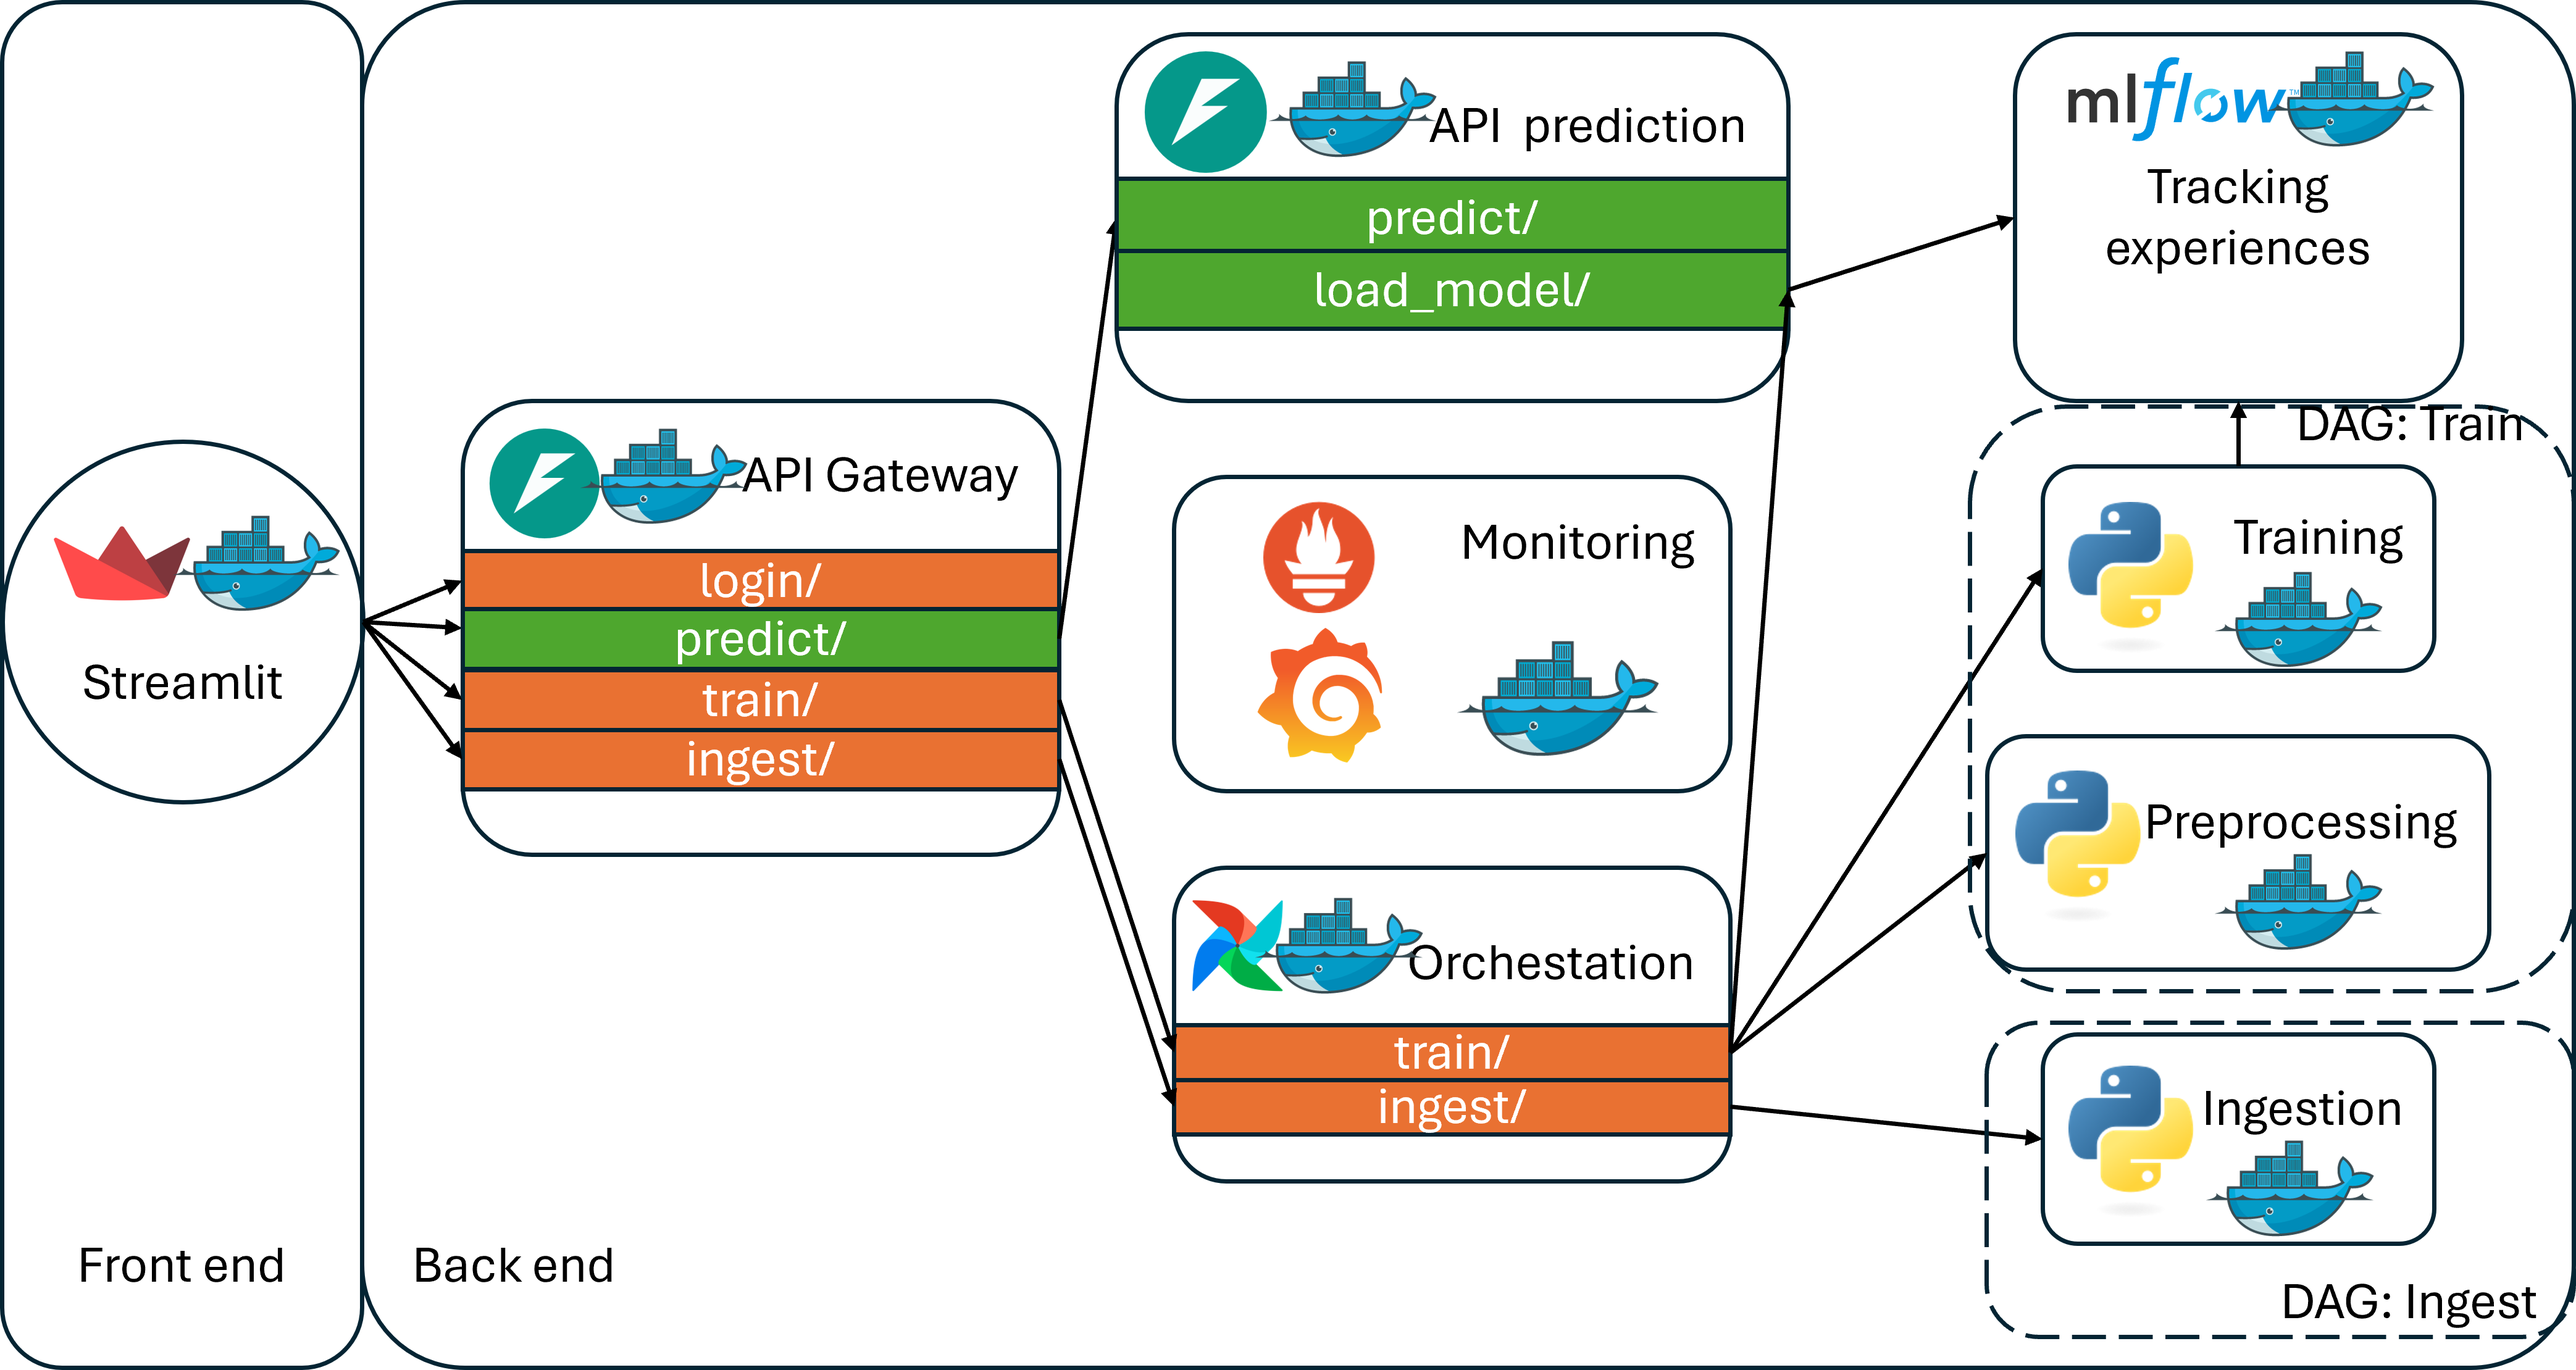
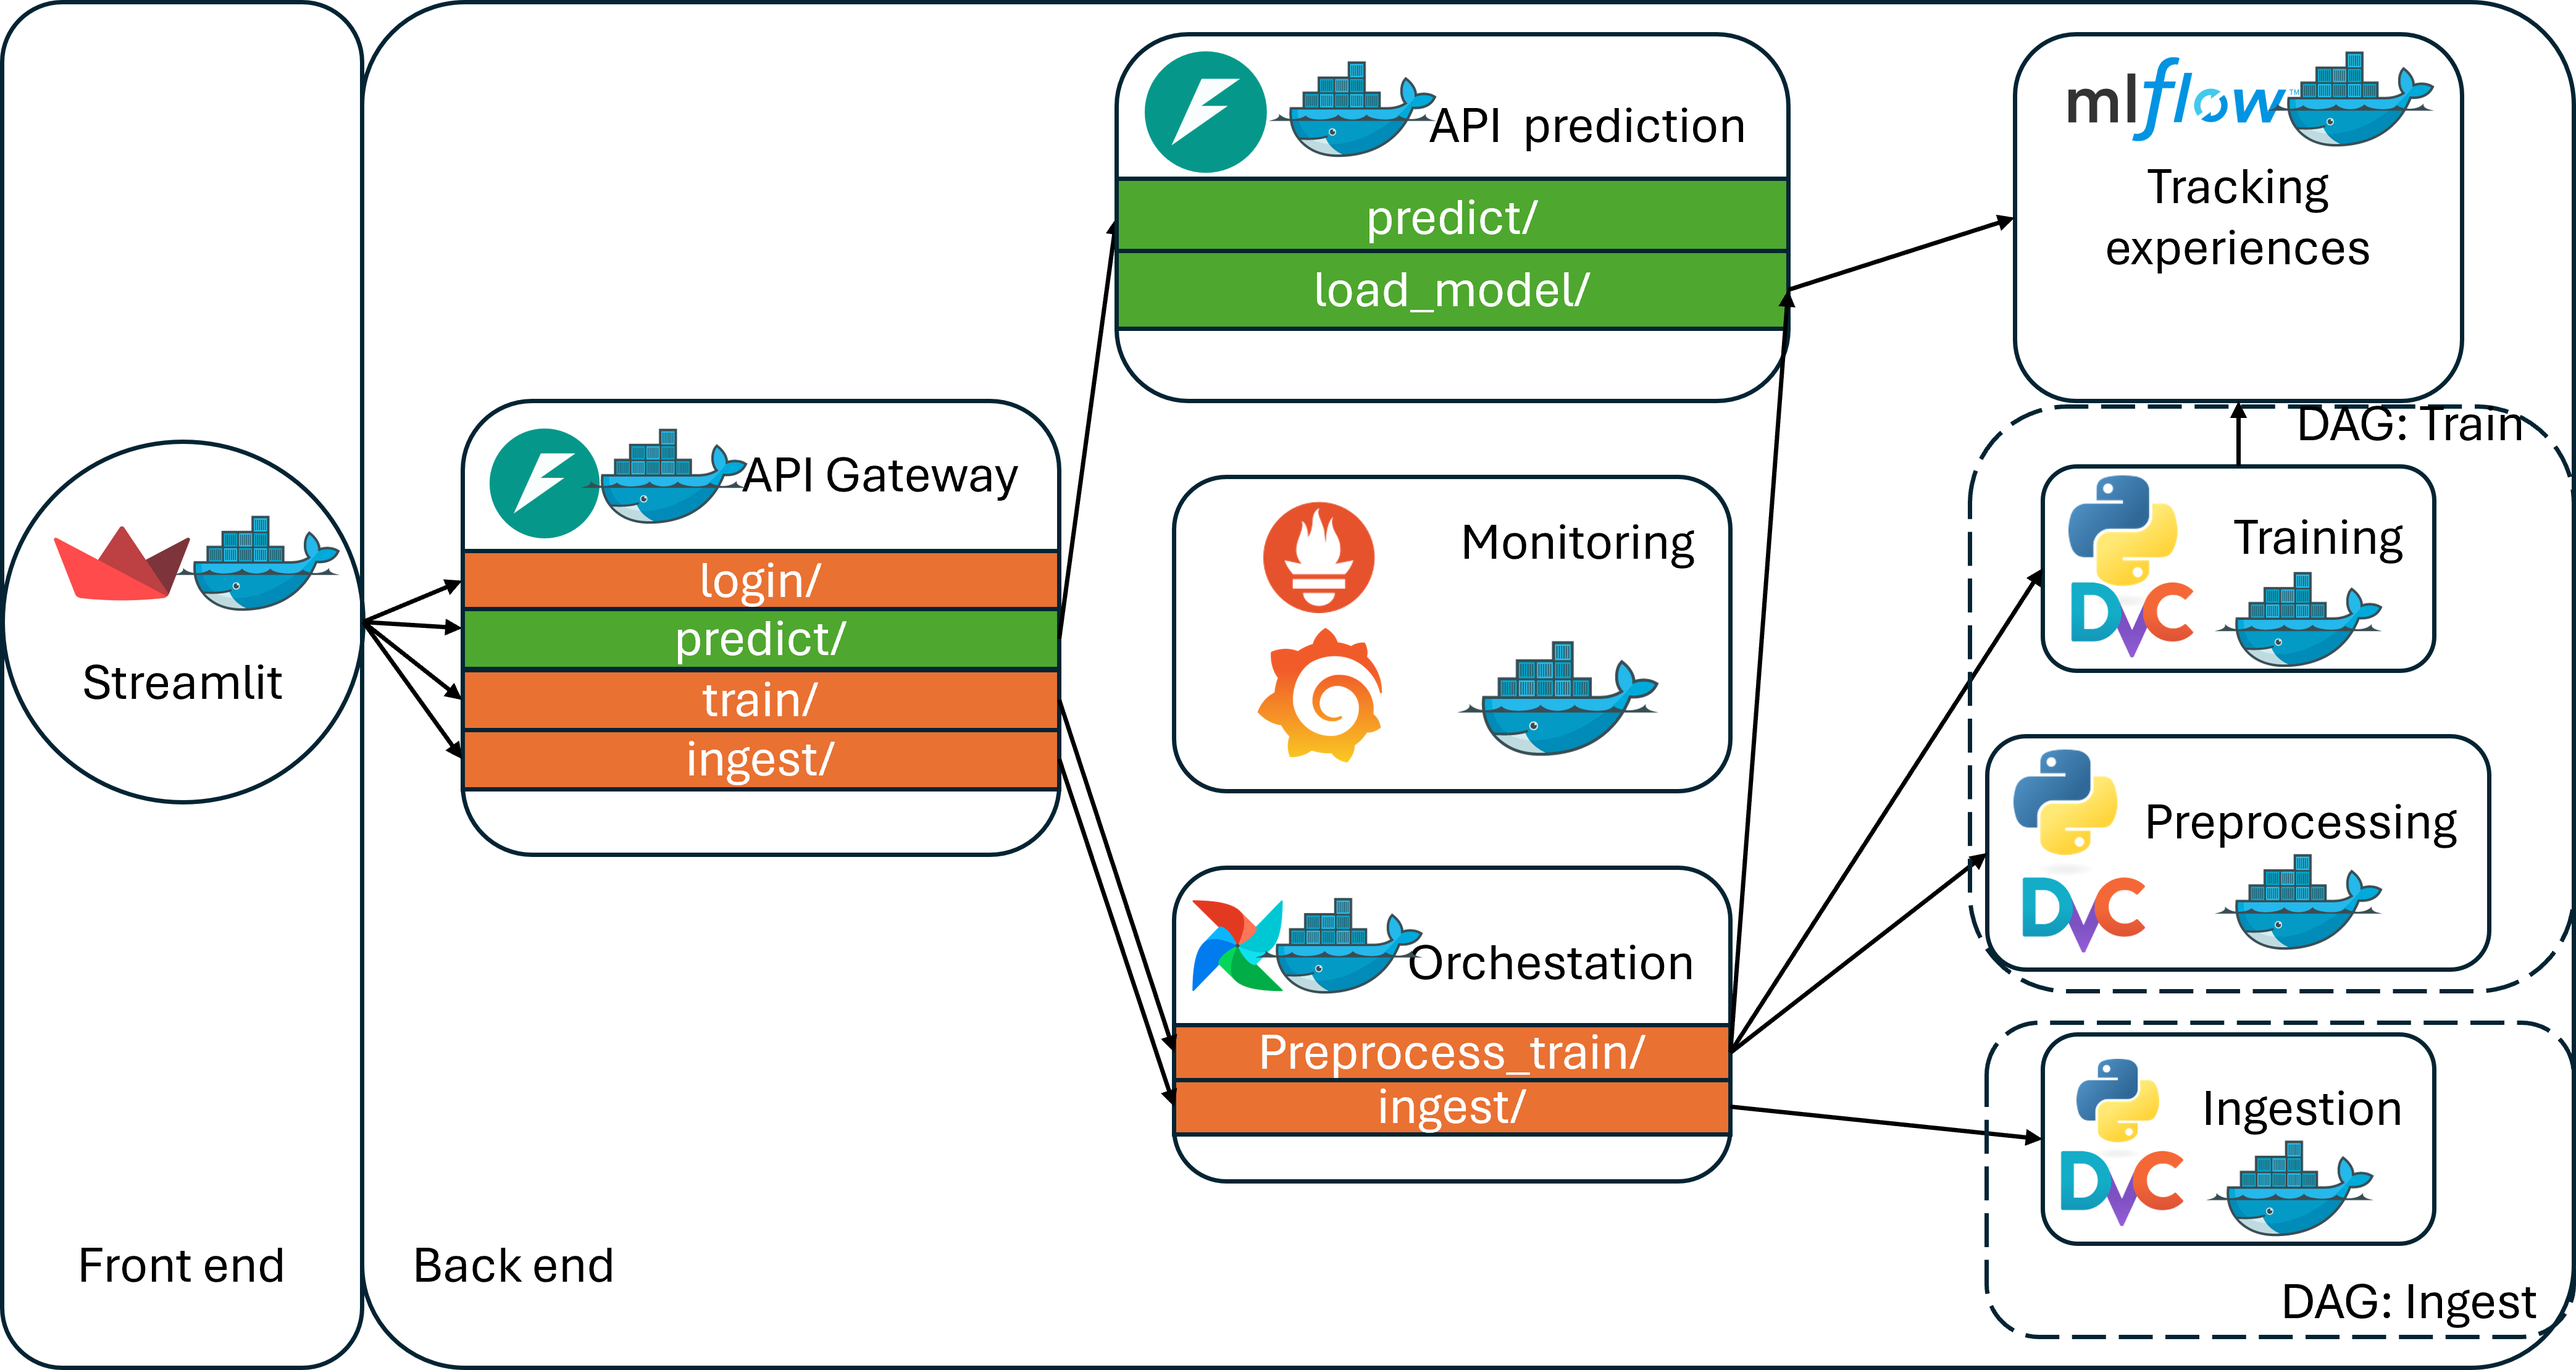
Modification of README for adding the details of DVC

diff --git a/README.md b/README.md
@@ -134,11 +134,12 @@ Ce projet implémente un système de prédiction du lendemain en Australie basé
 
 Il y a différents microservices qui tournent au même temps pour faire fonctionner l'application:
 - #### Ingestion
-Ce microservices sert à récupérer les données journalières des différents endroits pour les enregistrer sur la base de données brute pour une prochaine entrainement.
+Ce microservices sert à récupérer les données journalières des différents endroits pour les enregistrer sur la base de données brute pour une prochaine entrainement. Dedans le conteneur, la gestion de version des données brutes est gérée via DVC.
 - #### Preprocessing
-Ce microservice récupère la dernière version des données brutes et preprocess les données pour les tourner directement vers de données exploitables dans l’entrainement
+Ce microservice récupère la dernière version des données brutes et preprocess les données pour les tourner directement vers de données exploitables dans l’entrainement.
+Dedans le conteneur, la gestion de version des données prétraités est géré via DVC.
 - #### Training 
-Ce microservice utilise les données déjà prétraités pour entrainer un modèle XGBoost.
+Une fois entrainés la gestion du stockage des expériences et modèles du serveur MLFlow est géré via DVC.
 - #### MLFlow
 Ce microservice crée un serveur pour stocker et tracker les différentes expériences et versions de modèles.
 - #### API_prediction
